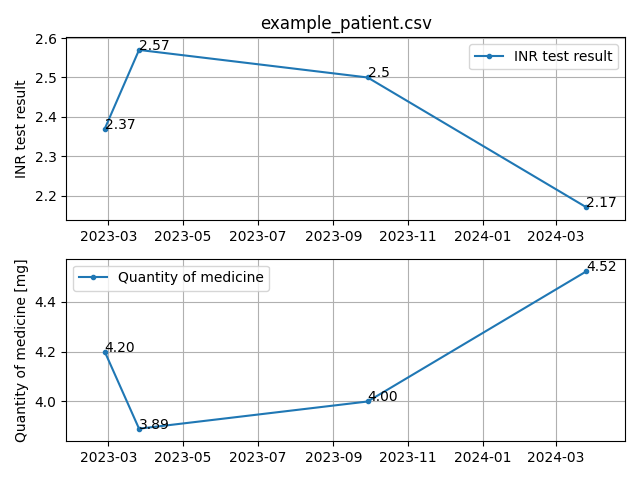
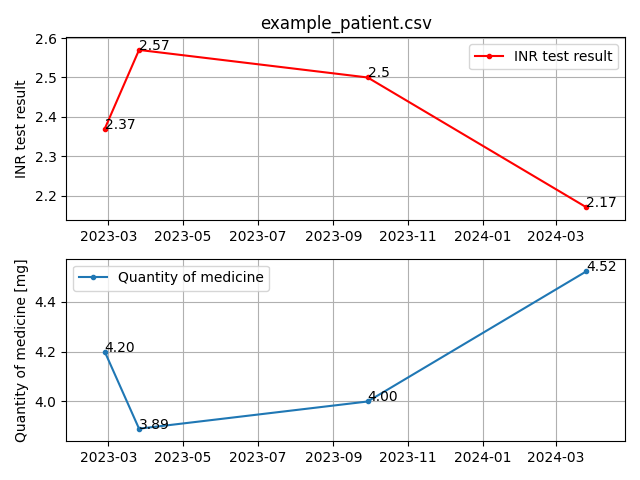
red plot color

diff --git a/main.py b/main.py
@@ -66,7 +66,7 @@ def solve(file):
     fig, axs = plt.subplots(2, 1)
     fig = pylab.gcf()
     fig.canvas.manager.set_window_title(f'{filename}')
-    axs[0].plot(x_axis, inr_test_results_column, label='INR test result', marker='.')
+    axs[0].plot(x_axis, inr_test_results_column, color='red', label='INR test result', marker='.')
     axs[0].set_title(f'{filename}')
     axs[0].set_ylabel('INR test result')
     axs[0].grid(True)
